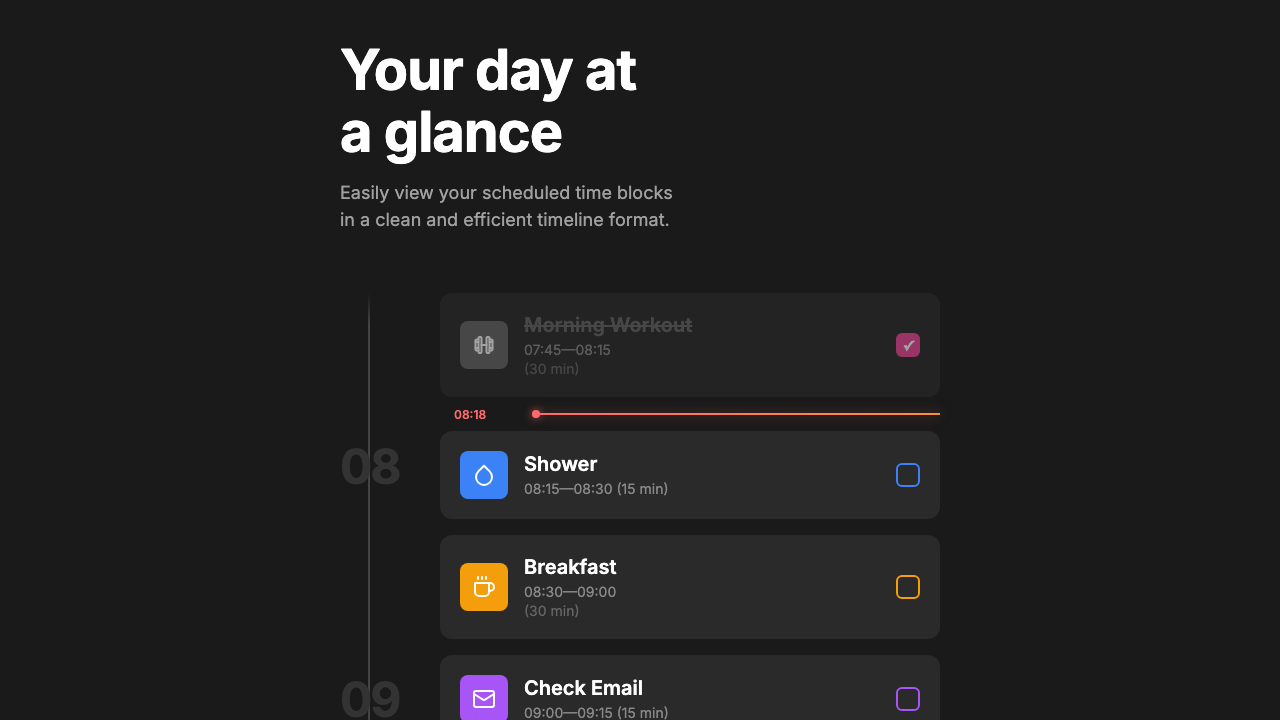
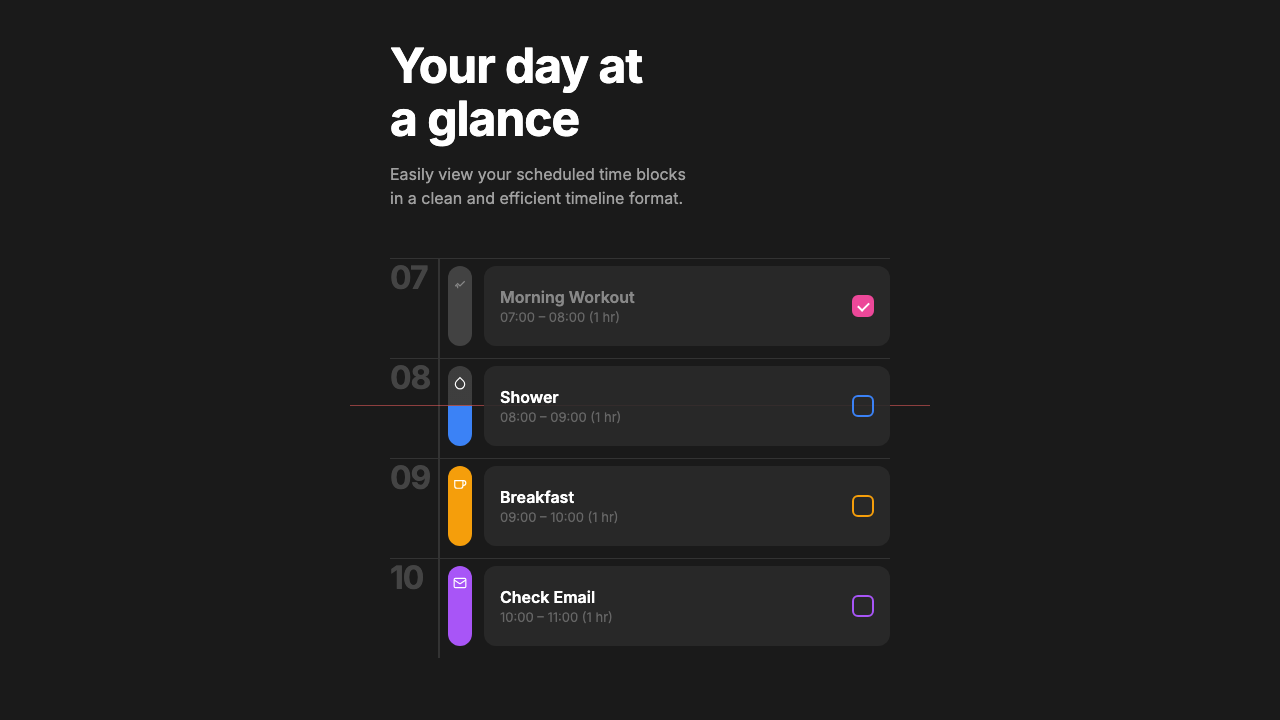
Update Day at a Glance README, screenshot, and index entry
- Updated README with new 3-column grid documentation
- Added grid structure diagram
- Updated design principles and key features
- Refreshed homepage screenshot
- Updated index.html description and tags

diff --git a/index.html b/index.html
@@ -187,12 +187,12 @@
           <a href="./2026-01-28-day-at-a-glance/">Day at a Glance</a>
         </h2>
         <p class="experiment-description">
-          Timeline-based daily schedule interface with colorful event blocks, interactive checkboxes, and time markers. Features now-line indicator, SVG icons, and past/upcoming visual states.
+          Clean 3-column CSS grid timeline with colored sidebar bars, SVG icons, and a subtle "now" indicator line that shows through semi-transparent event cards. Features split color bars for past/upcoming visualization.
         </p>
         <div class="experiment-tags">
+          <span class="tag">CSS Grid</span>
           <span class="tag">Timeline</span>
-          <span class="tag">UI Component</span>
-          <span class="tag">Calendar</span>
+          <span class="tag">Z-Index Layering</span>
           <span class="tag">Dark Theme</span>
         </div>
       </div>

diff --git a/2026-01-28-day-at-a-glance/README.md b/2026-01-28-day-at-a-glance/README.md
@@ -1,27 +1,37 @@
 # Day at a Glance
 
-**Date:** January 28, 2026
+**Date:** January 28, 2026 (Updated February 2, 2026)
 **Type:** Timeline / UI Component
 
 ## Overview
-A timeline-based daily schedule interface with colorful event blocks, checkboxes, and time markers. Designed to showcase a clean, modern approach to calendar visualization.
+A timeline-based daily schedule interface using a clean 3-column CSS grid layout. Features colored sidebar bars with icons, hourly event cards, and a subtle "now" indicator line that shows through semi-transparent elements.
 
 ## Key Features
-- Vertical timeline with hour markers
-- Color-coded event cards (workout, shower, breakfast, email)
-- Interactive checkboxes with completion states
-- Current time indicator (08:18)
-- Sun/moon markers for day boundaries
-- Day summary statistics
-- Create event button
-- Back/Continue navigation buttons
+- 3-column grid layout (hour numbers, colored bars, event cards)
+- Fixed 100px row height with continuous horizontal hour lines
+- SVG icons on colored sidebar bars (workout, shower, breakfast, email)
+- Subtle "now" indicator line visible through 90% opacity cards
+- Split color bar showing past/upcoming time division
+- Past events displayed with grayed styling
+- Interactive checkboxes with color-coded borders
 
 ## Design Principles
 - Dark theme (#1a1a1a background)
 - Vibrant accent colors (blue, orange, purple, pink)
-- Card-based event design
-- Clear visual hierarchy
-- Rounded corners and modern spacing
+- 3-column CSS grid with 8px gaps
+- Z-index layering for now-line visibility through cards
+- Continuous hour lines extended with negative margins
+- Clean visual hierarchy without unnecessary UI chrome
+
+## Grid Structure
+```
+| Col 1 (50px)  | Col 2 (28px)    | Col 3 (1fr)    |
+|---------------|-----------------|----------------|
+| 07 + v-line   | gray bar + icon | Morning Workout|
+| 08 + v-line   | split bar       | Shower         |
+| 09 + v-line   | orange bar      | Breakfast      |
+| 10 + v-line   | purple bar      | Check Email    |
+```
 
 ## How to Run
 Open `index.html` in a browser or use:
@@ -33,4 +43,4 @@ npm run dev
 - Google Fonts: Inter (400, 500, 600, 700)
 
 ## Screenshots
-- `screenshots/default-view.png` - Main timeline view
+See `screenshots/` folder for design iterations.
